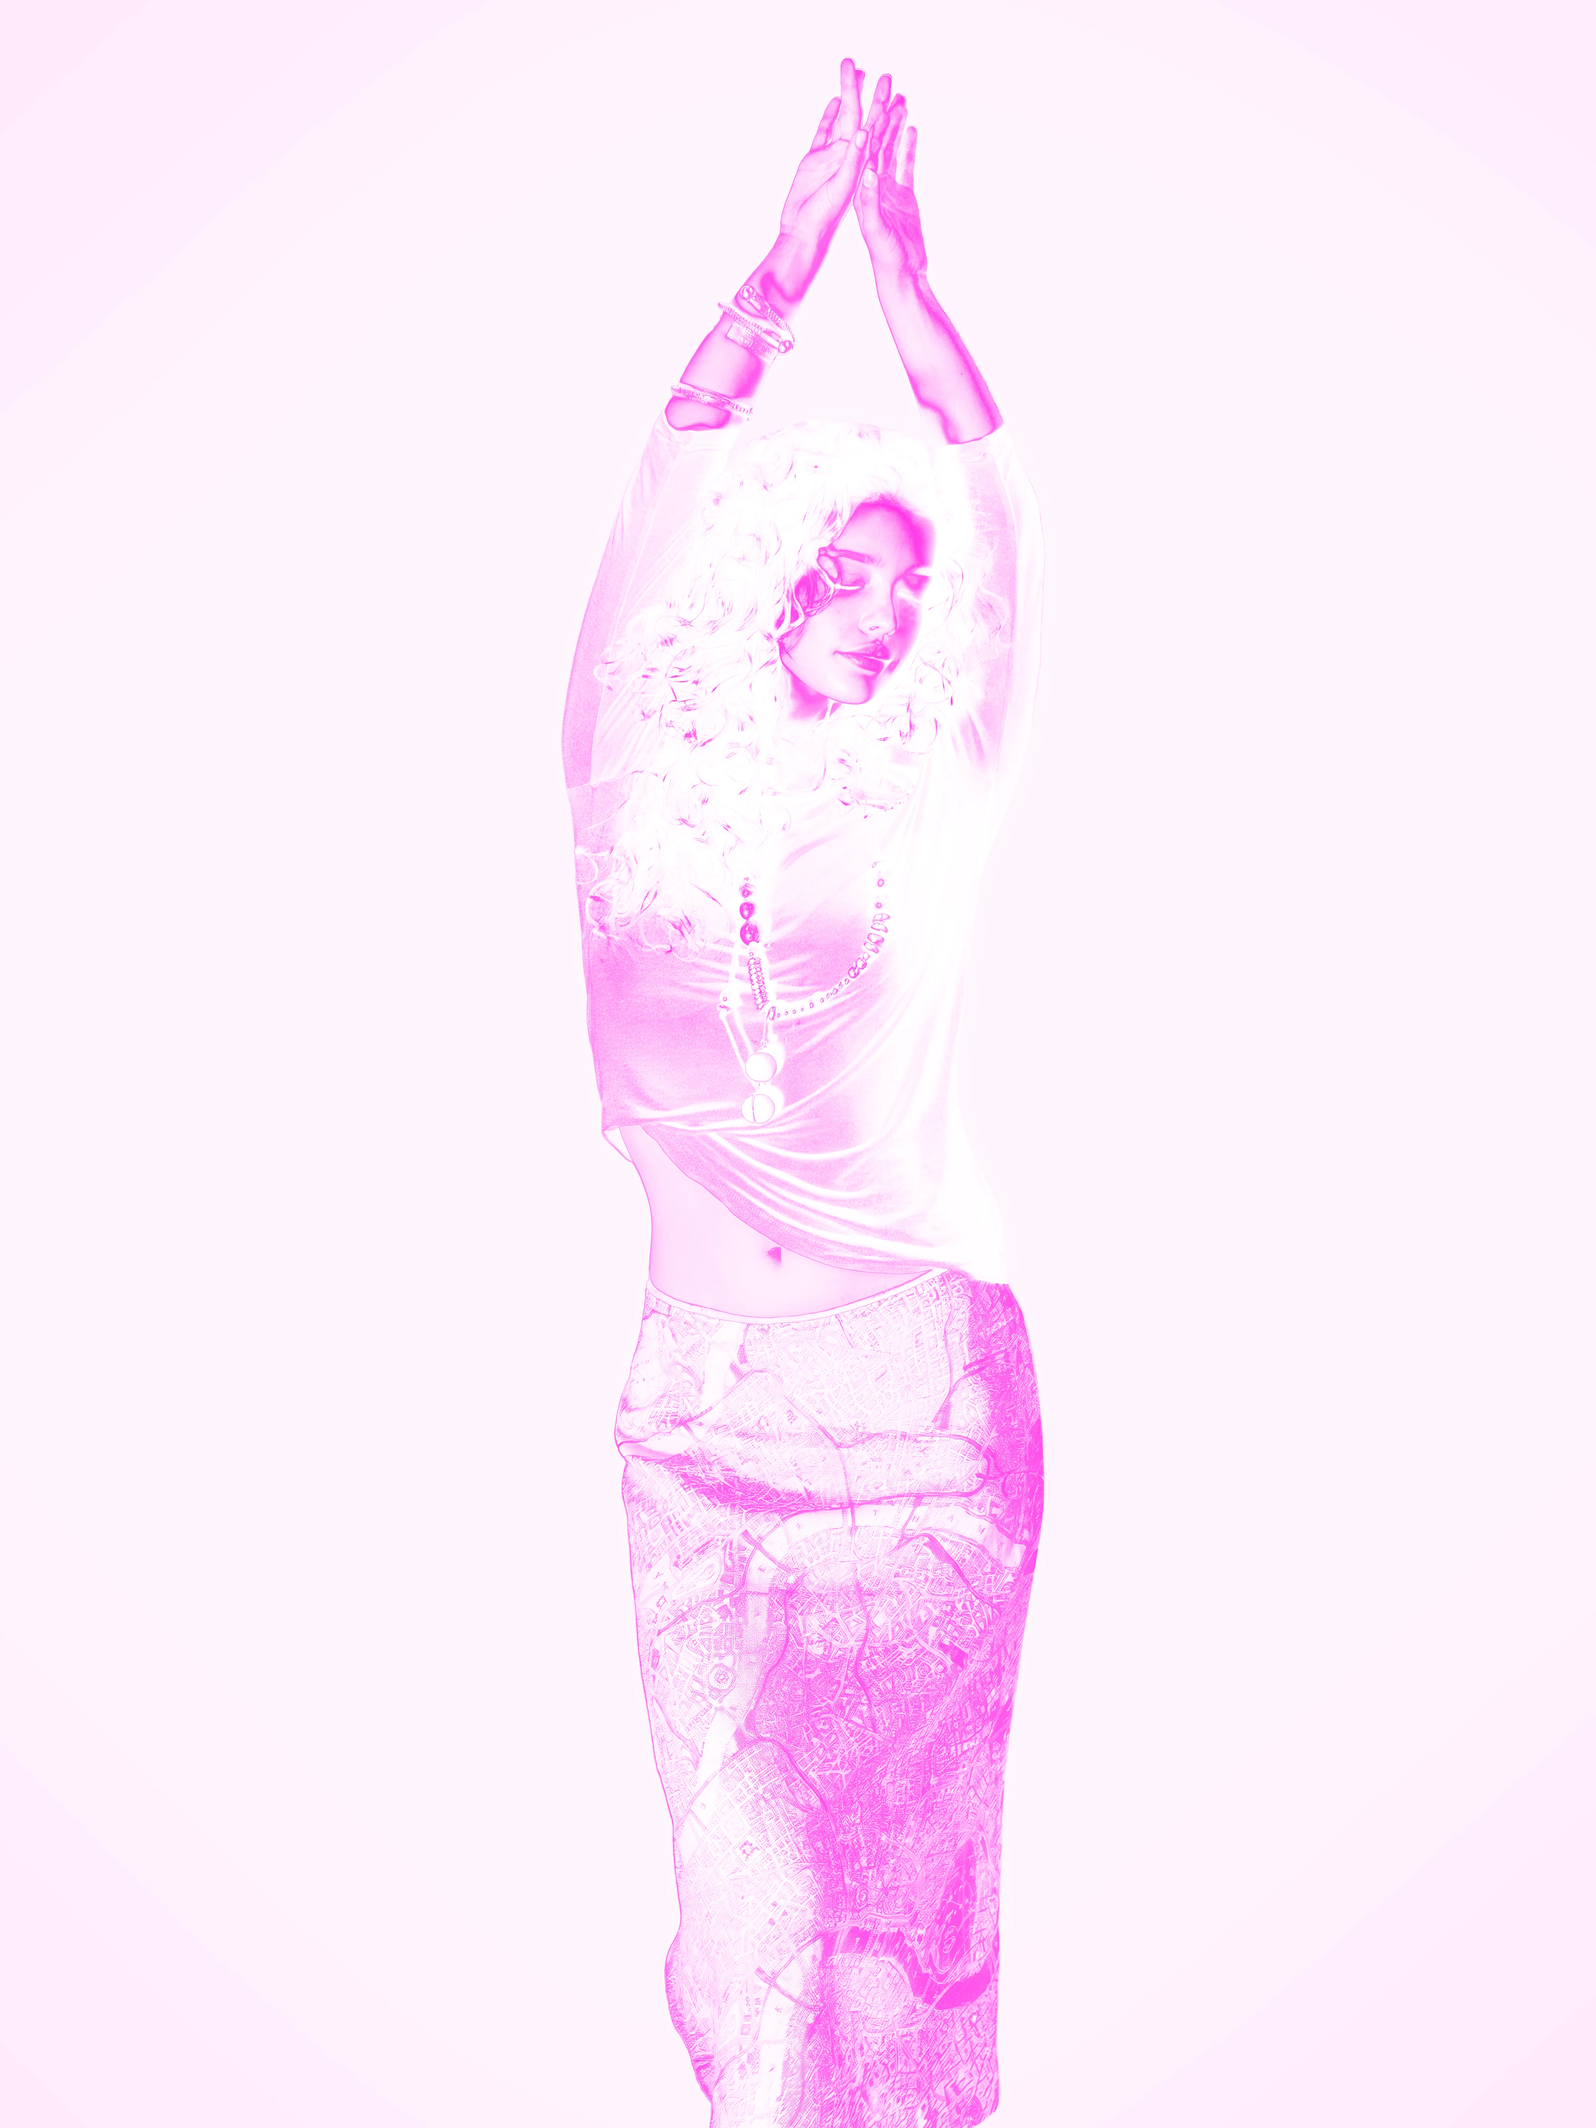
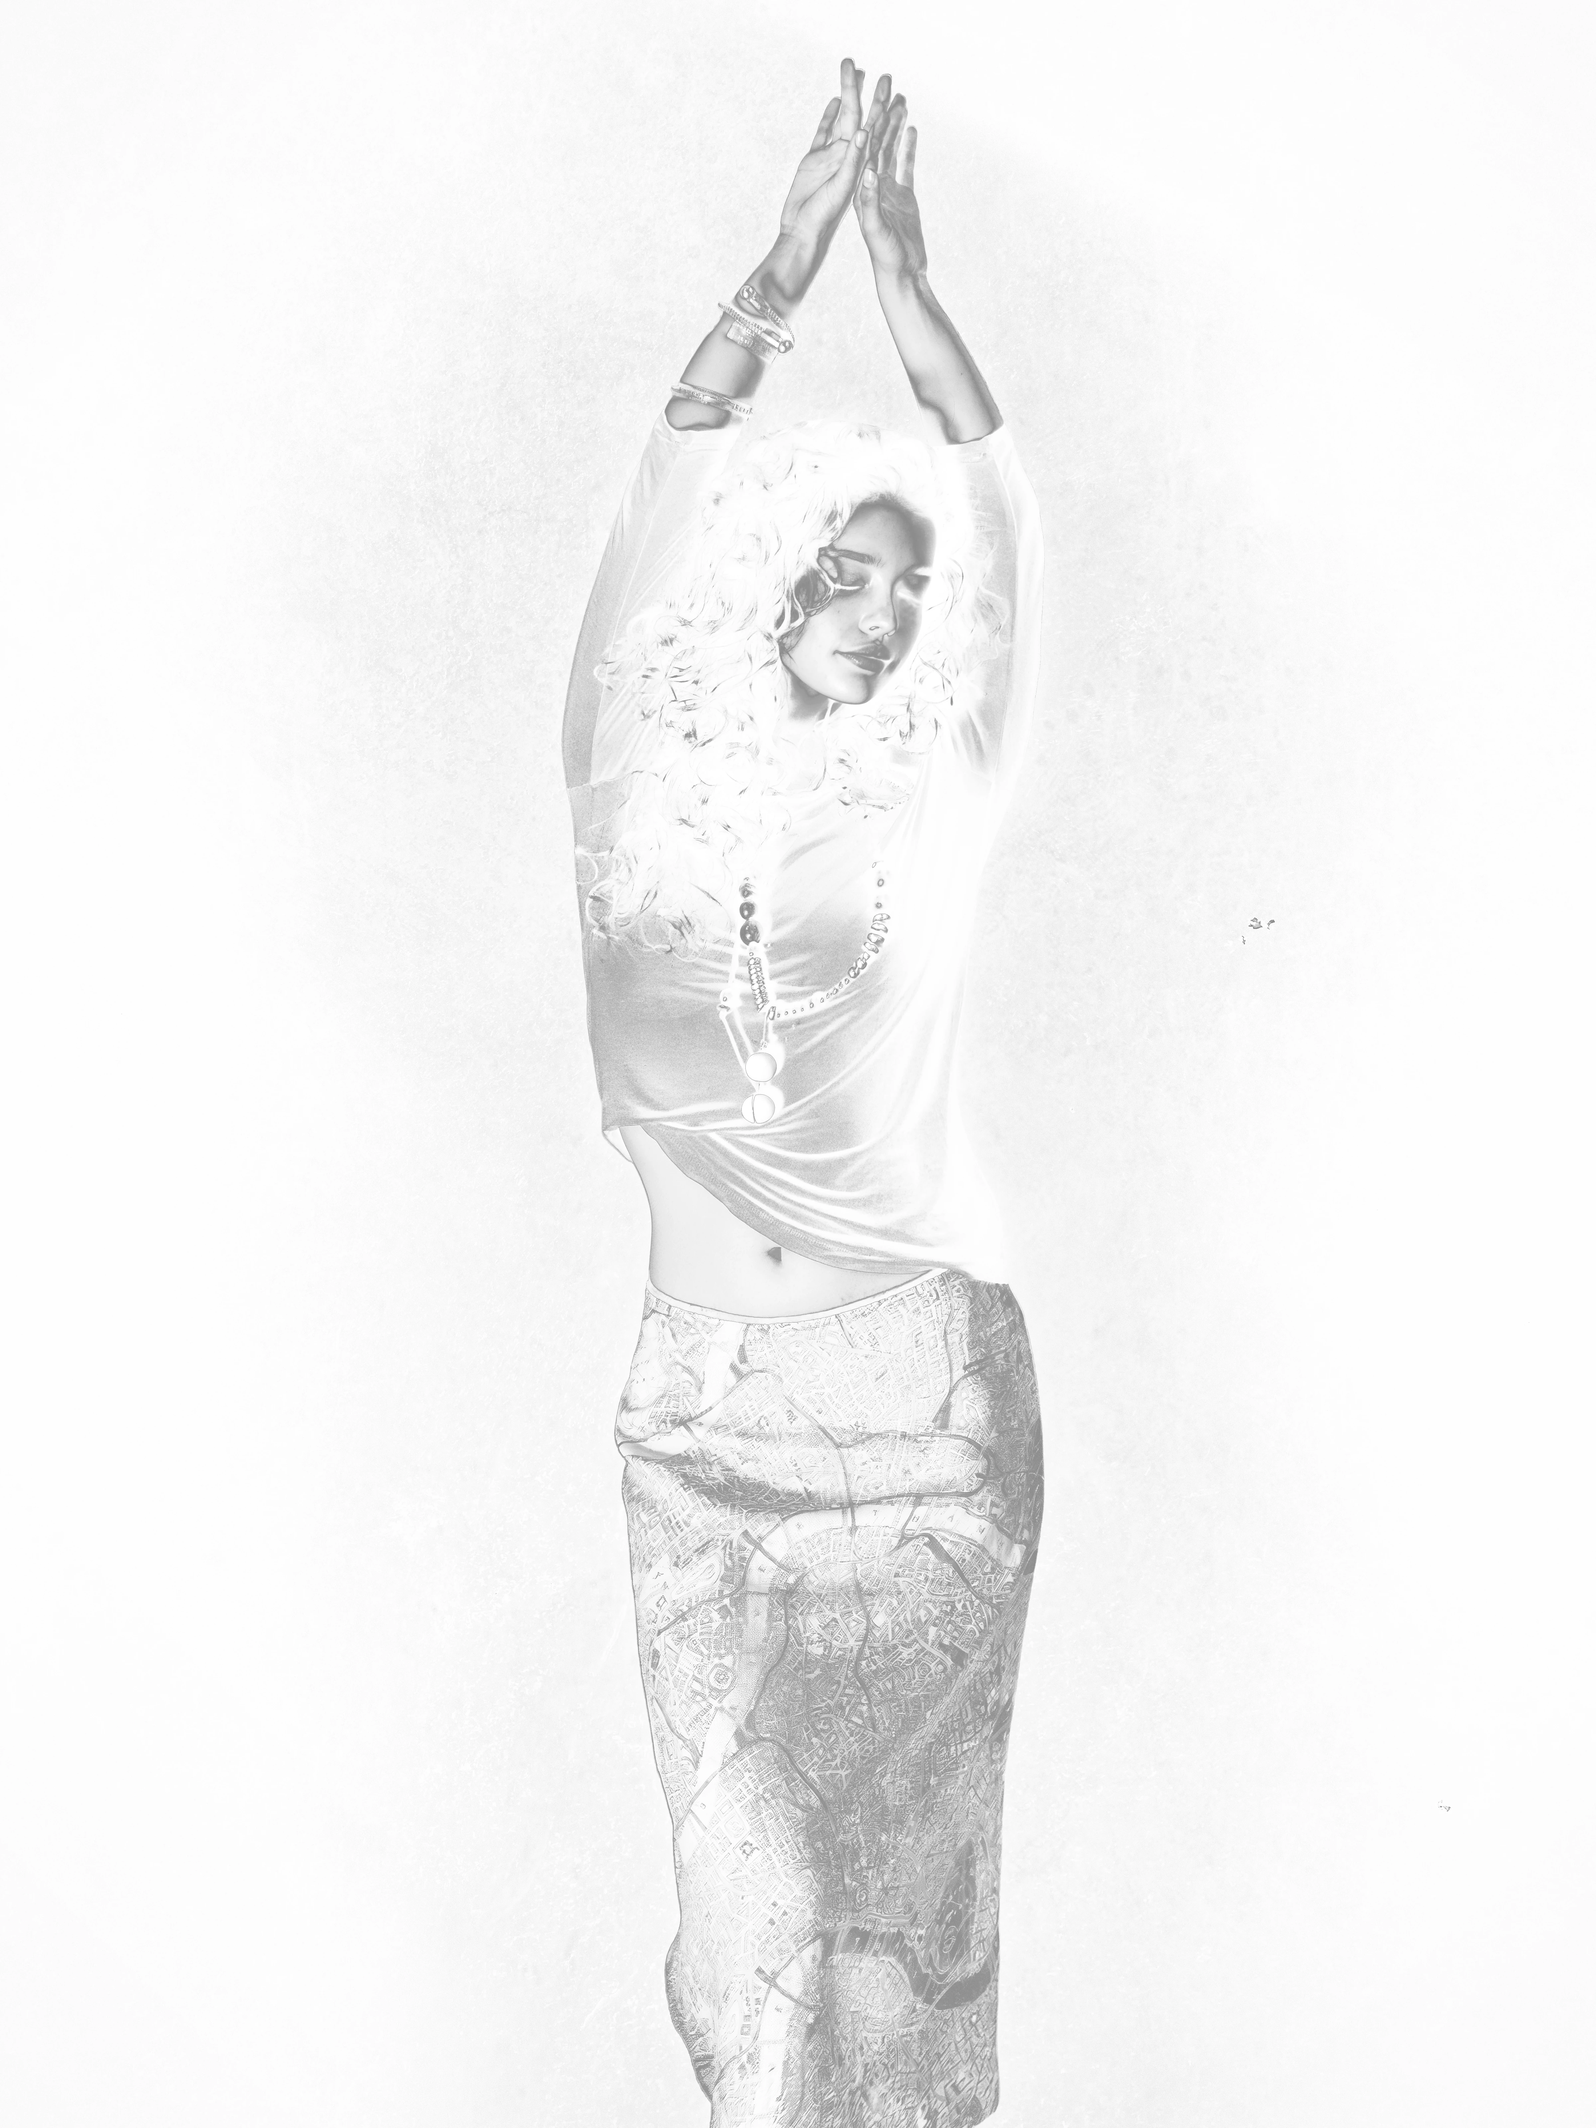
Replace the Colour Series picture, keeping its place and caption
Swaps the image behind Value(49) for the new upload. Value and caption
are untouched, so it stays third in the gallery.

Adds --replace to the import tool for this, along with two things the
first version got away with but this one would not:

- Photos now carry a hash of their own bytes in the URL. A replacement
  keeps its filename, so without that the browser and the CDN would both
  go on serving the old picture from cache.
- Uploads with an alpha channel are flattened onto white rather than
  straight to RGB, which composites transparency onto black. This file
  turned out to be fully opaque, but the next one may not be.

Changed region(s): [[0.3438, 0.25, 0.6562, 1.0], [0.4062, 0.0312, 0.6562, 0.375]]

diff --git a/script.js b/script.js
@@ -2,39 +2,39 @@
 // "src" must point to an image in the images/ folder.
 // "title" contains the caption (filename after Value(number))
 const PHOTOS = [
-  { src: "images/web/Value(51)Chasing,2026.webp", title: "Chasing,2026", ar: 0.6667 },
-  { src: "images/web/Value(50)Freddie Taylor for Chatchai Chaitrakulthong, 2026.webp", title: "Freddie Taylor for Chatchai Chaitrakulthong, 2026", ar: 0.7505 },
-  { src: "images/web/Value(49)Colour Series, 2026.webp", title: "Colour Series, 2026", ar: 0.7500 },
-  { src: "images/web/Value(48)Chasing, 2026.webp", title: "Chasing, 2026", ar: 0.7325 },
-  { src: "images/web/Value(45)Audio, Fijolla, 2026.webp", title: "Audio, Fijolla, 2026", ar: 0.7500 },
-  { src: "images/web/Value(41)Manon Servage, 2026.webp", title: "Manon Servage, 2026", ar: 0.7150 },
-  { src: "images/web/Value(35)Manon Servage for Volume, 2026.webp", title: "Manon Servage for Volume, 2026", ar: 0.7550 },
-  { src: "images/web/Value(34)Freddie Taylor for Chatchai Chaitrakulthong, 2026.webp", title: "Freddie Taylor for Chatchai Chaitrakulthong, 2026", ar: 0.7502 },
-  { src: "images/web/Value(33)Chasing, 2026.webp", title: "Chasing, 2026", ar: 0.6667 },
-  { src: "images/web/Value(32)Freddie Taylor for Chatchai Chaitrakulthong, 2026.webp", title: "Freddie Taylor for Chatchai Chaitrakulthong, 2026", ar: 0.7500 },
-  { src: "images/web/Value(29)Chasing, 2026.webp", title: "Chasing, 2026", ar: 0.6667 },
-  { src: "images/web/Value(26)Freddie Taylor for Chatchai Chaitrakulthong, 2026.webp", title: "Freddie Taylor for Chatchai Chaitrakulthong, 2026", ar: 0.7504 },
-  { src: "images/web/Value(25)Manon Servage for Volume, 2026.webp", title: "Manon Servage for Volume, 2026", ar: 0.6821 },
-  { src: "images/web/Value(24)Freddie Taylor for Chatchai Chaitrakulthong, 2026.webp", title: "Freddie Taylor for Chatchai Chaitrakulthong, 2026", ar: 0.7546 },
-  { src: "images/web/Value(23)Freddie Taylor for Chatchai Chaitrakulthong, 2026.webp", title: "Freddie Taylor for Chatchai Chaitrakulthong, 2026", ar: 0.7546 },
-  { src: "images/web/Value(22)Manon Servage, 2026.webp", title: "Manon Servage, 2026", ar: 0.6833 },
-  { src: "images/web/Value(20)Milan Here, 2026.webp", title: "Milan Here, 2026", ar: 0.6937 },
-  { src: "images/web/Value(19)Boko Yout for Pohoda, 2026.webp", title: "Boko Yout for Pohoda, 2026", ar: 0.6667 },
-  { src: "images/web/Value(16)Boko Yout for Pohoda, 2026.webp", title: "Boko Yout for Pohoda, 2026", ar: 0.6667 },
-  { src: "images/web/Value(15)Milan Here, 2026.webp", title: "Milan Here, 2026", ar: 0.6971 },
-  { src: "images/web/Value(14)Manon Servage, 2026.webp", title: "Manon Servage, 2026", ar: 0.6667 },
-  { src: "images/web/Value(12)Manon Servage, 2026.webp", title: "Manon Servage, 2026", ar: 0.7104 },
-  { src: "images/web/Value(11)Denu Denudes for Cover, 2025.webp", title: "Denu Denudes for Cover, 2025", ar: 0.7458 },
-  { src: "images/web/Value(10)Denu Denudes for Volume, 2025.webp", title: "Denu Denudes for Volume, 2025", ar: 0.7348 },
-  { src: "images/web/Value(9)Cover, 2025.webp", title: "Cover, 2025", ar: 0.7471 },
-  { src: "images/web/Value(8)Mishko for Volume, 2026.webp", title: "Mishko for Volume, 2026", ar: 0.7358 },
-  { src: "images/web/Value(7)O, 2025.webp", title: "O, 2025", ar: 0.6350 },
-  { src: "images/web/Value(6)Unbearable Lightness, 2025.webp", title: "Unbearable Lightness, 2025", ar: 0.7348 },
-  { src: "images/web/Value(5)Shout, 2025.webp", title: "Shout, 2025", ar: 0.6658 },
-  { src: "images/web/Value(4)Morphed Series, 2024.webp", title: "Morphed Series, 2024", ar: 0.6667 },
-  { src: "images/web/Value(2)Block, 2024.webp", title: "Block, 2024", ar: 0.7348 },
-  { src: "images/web/Value(2)Fur Legs, 2025.webp", title: "Fur Legs, 2025", ar: 0.7471 },
-  { src: "images/web/Value(1)Boot, 2024.webp", title: "Boot, 2024", ar: 0.7471 },
+  { src: "images/web/Value(51)Chasing,2026.webp?v=d1ef5f07", title: "Chasing,2026", ar: 0.6667 },
+  { src: "images/web/Value(50)Freddie Taylor for Chatchai Chaitrakulthong, 2026.webp?v=815f4cfd", title: "Freddie Taylor for Chatchai Chaitrakulthong, 2026", ar: 0.7505 },
+  { src: "images/web/Value(49)Colour Series, 2026.webp?v=21f9630c", title: "Colour Series, 2026", ar: 0.7500 },
+  { src: "images/web/Value(48)Chasing, 2026.webp?v=71b53fd5", title: "Chasing, 2026", ar: 0.7325 },
+  { src: "images/web/Value(45)Audio, Fijolla, 2026.webp?v=732a716b", title: "Audio, Fijolla, 2026", ar: 0.7500 },
+  { src: "images/web/Value(41)Manon Servage, 2026.webp?v=70380b1a", title: "Manon Servage, 2026", ar: 0.7150 },
+  { src: "images/web/Value(35)Manon Servage for Volume, 2026.webp?v=9b372a8a", title: "Manon Servage for Volume, 2026", ar: 0.7550 },
+  { src: "images/web/Value(34)Freddie Taylor for Chatchai Chaitrakulthong, 2026.webp?v=7c0fcd54", title: "Freddie Taylor for Chatchai Chaitrakulthong, 2026", ar: 0.7502 },
+  { src: "images/web/Value(33)Chasing, 2026.webp?v=73ec6377", title: "Chasing, 2026", ar: 0.6667 },
+  { src: "images/web/Value(32)Freddie Taylor for Chatchai Chaitrakulthong, 2026.webp?v=676c42a3", title: "Freddie Taylor for Chatchai Chaitrakulthong, 2026", ar: 0.7500 },
+  { src: "images/web/Value(29)Chasing, 2026.webp?v=62480716", title: "Chasing, 2026", ar: 0.6667 },
+  { src: "images/web/Value(26)Freddie Taylor for Chatchai Chaitrakulthong, 2026.webp?v=62953417", title: "Freddie Taylor for Chatchai Chaitrakulthong, 2026", ar: 0.7504 },
+  { src: "images/web/Value(25)Manon Servage for Volume, 2026.webp?v=dd847a74", title: "Manon Servage for Volume, 2026", ar: 0.6821 },
+  { src: "images/web/Value(24)Freddie Taylor for Chatchai Chaitrakulthong, 2026.webp?v=925c9687", title: "Freddie Taylor for Chatchai Chaitrakulthong, 2026", ar: 0.7546 },
+  { src: "images/web/Value(23)Freddie Taylor for Chatchai Chaitrakulthong, 2026.webp?v=3a17748a", title: "Freddie Taylor for Chatchai Chaitrakulthong, 2026", ar: 0.7546 },
+  { src: "images/web/Value(22)Manon Servage, 2026.webp?v=4aa3ed13", title: "Manon Servage, 2026", ar: 0.6833 },
+  { src: "images/web/Value(20)Milan Here, 2026.webp?v=7585733d", title: "Milan Here, 2026", ar: 0.6937 },
+  { src: "images/web/Value(19)Boko Yout for Pohoda, 2026.webp?v=16fb2828", title: "Boko Yout for Pohoda, 2026", ar: 0.6667 },
+  { src: "images/web/Value(16)Boko Yout for Pohoda, 2026.webp?v=76d243a1", title: "Boko Yout for Pohoda, 2026", ar: 0.6667 },
+  { src: "images/web/Value(15)Milan Here, 2026.webp?v=44167591", title: "Milan Here, 2026", ar: 0.6971 },
+  { src: "images/web/Value(14)Manon Servage, 2026.webp?v=ddbd9645", title: "Manon Servage, 2026", ar: 0.6667 },
+  { src: "images/web/Value(12)Manon Servage, 2026.webp?v=3ddd0ec0", title: "Manon Servage, 2026", ar: 0.7104 },
+  { src: "images/web/Value(11)Denu Denudes for Cover, 2025.webp?v=c7026b0a", title: "Denu Denudes for Cover, 2025", ar: 0.7458 },
+  { src: "images/web/Value(10)Denu Denudes for Volume, 2025.webp?v=d68f5ce2", title: "Denu Denudes for Volume, 2025", ar: 0.7348 },
+  { src: "images/web/Value(9)Cover, 2025.webp?v=d0764c01", title: "Cover, 2025", ar: 0.7471 },
+  { src: "images/web/Value(8)Mishko for Volume, 2026.webp?v=5d771d98", title: "Mishko for Volume, 2026", ar: 0.7358 },
+  { src: "images/web/Value(7)O, 2025.webp?v=6962c783", title: "O, 2025", ar: 0.6350 },
+  { src: "images/web/Value(6)Unbearable Lightness, 2025.webp?v=12c1a673", title: "Unbearable Lightness, 2025", ar: 0.7348 },
+  { src: "images/web/Value(5)Shout, 2025.webp?v=4a5e94bd", title: "Shout, 2025", ar: 0.6658 },
+  { src: "images/web/Value(4)Morphed Series, 2024.webp?v=63ba2ff8", title: "Morphed Series, 2024", ar: 0.6667 },
+  { src: "images/web/Value(2)Block, 2024.webp?v=db09423f", title: "Block, 2024", ar: 0.7348 },
+  { src: "images/web/Value(2)Fur Legs, 2025.webp?v=b8e2ec1d", title: "Fur Legs, 2025", ar: 0.7471 },
+  { src: "images/web/Value(1)Boot, 2024.webp?v=d20a9ffe", title: "Boot, 2024", ar: 0.7471 },
 ];
 
 // Order always follows the Value(n) number in the filename, highest first.

diff --git a/gallery/index.html b/gallery/index.html
@@ -23,7 +23,7 @@
   <div class="watch-canvas" id="watchCanvas"></div>
 </main>
 
-<script src="../script.js?v=25"></script>
-<script src="../gallery.js?v=14"></script>
+<script src="../script.js?v=26"></script>
+<script src="../gallery.js?v=15"></script>
 </body>
 </html>

diff --git a/contact/index.html b/contact/index.html
@@ -37,6 +37,6 @@
   <p>&copy; <span id="year"></span> Hugo Kae. All images on this site are copyright protected.</p>
 </footer>
 
-<script src="../script.js?v=25"></script>
+<script src="../script.js?v=26"></script>
 </body>
 </html>

diff --git a/index.html b/index.html
@@ -37,6 +37,6 @@
   <p>&copy; <span id="year"></span> Hugo Kae. All images on this site are copyright protected.</p>
 </footer>
 
-<script src="script.js?v=25"></script>
+<script src="script.js?v=26"></script>
 </body>
 </html>

diff --git a/tools/import.py b/tools/import.py
@@ -6,14 +6,18 @@ in images/, a 2400px copy in images/web/ that the pages actually load,
 and a 400px thumbnail in images/thumb/ for the grid. The PHOTOS list in
 script.js is then regenerated from what is on disk.
 
-    python3 tools/import.py                # newest photo goes first
-    python3 tools/import.py --value 49     # or place it explicitly
-    python3 tools/import.py --slot 3       # or by position in the gallery
+    python3 tools/import.py                      # newest photo goes first
+    python3 tools/import.py --value 49           # or place it explicitly
+    python3 tools/import.py --slot 3             # or by position in the gallery
+    python3 tools/import.py --replace 49 --file Replace.png
+                                                 # swap one photo's picture,
+                                                 # keeping its value and caption
 
 Needs Pillow with WebP support.
 """
 
 import argparse
+import hashlib
 import os
 import re
 import sys
@@ -82,6 +86,18 @@ def derive(path, value):
     return "Value(%d)%s.webp" % (value, caption), caption
 
 
+def load(path):
+    img = ImageOps.exif_transpose(Image.open(path))
+    if img.mode in ("RGBA", "LA", "P"):
+        # Flatten onto white, matching the page. Converting straight to
+        # RGB would composite any transparency onto black instead.
+        img = img.convert("RGBA")
+        flat = Image.new("RGB", img.size, (255, 255, 255))
+        flat.paste(img, mask=img.getchannel("A"))
+        return flat
+    return img.convert("RGB")
+
+
 def write_sizes(src_img, name):
     master = os.path.join(MASTERS, name)
     src_img.save(master, "WEBP", quality=MASTER_Q, method=6)
@@ -98,9 +114,16 @@ def write_sizes(src_img, name):
 def regenerate_photo_list():
     lines = ["const PHOTOS = ["]
     for value, name, caption in masters():
-        w, h = Image.open(os.path.join(WEB, name)).size
+        path = os.path.join(WEB, name)
+        w, h = Image.open(path).size
+        # Tag each photo with a hash of its own bytes. Replacing a picture
+        # keeps its filename, so without this the browser and the CDN would
+        # go on serving the old one from cache.
+        with open(path, "rb") as fh:
+            tag = hashlib.md5(fh.read()).hexdigest()[:8]
         lines.append(
-            '  { src: "images/web/%s", title: "%s", ar: %.4f },' % (name, caption, w / h)
+            '  { src: "images/web/%s?v=%s", title: "%s", ar: %.4f },'
+            % (name, tag, caption, w / h)
         )
     lines.append("];")
 
@@ -114,6 +137,9 @@ def main():
     ap = argparse.ArgumentParser()
     ap.add_argument("--value", type=int, help="exact Value(n) to assign")
     ap.add_argument("--slot", type=int, help="position in the gallery, 1 = first")
+    ap.add_argument("--replace", type=int, metavar="VALUE",
+                    help="swap this photo's picture, keeping its value and caption")
+    ap.add_argument("--file", help="which upload to use (default: the only one)")
     # The master written here is lossy WebP, so the uploaded file may be
     # the only lossless copy. Removing it is opt-in.
     ap.add_argument("--remove", action="store_true", help="delete the upload once imported")
@@ -127,8 +153,40 @@ def main():
         if os.path.splitext(f)[1].lower() in SOURCES
         and os.path.isfile(os.path.join(UPLOAD, f))
     )
+    if args.file:
+        if args.file not in pending:
+            sys.exit("%r is not in images/upload/ (found: %s)" % (args.file, ", ".join(pending)))
+        pending = [args.file]
+
     if not pending:
         print("Nothing to import.")
+        return
+
+    if args.replace is not None:
+        if len(pending) != 1:
+            sys.exit("Replacing needs one source — pass --file to choose between: %s"
+                     % ", ".join(pending))
+        match = [m for m in masters() if m[0] == args.replace]
+        if not match:
+            sys.exit("No photo has Value(%d)." % args.replace)
+        _, name, caption = match[0]
+
+        path = os.path.join(UPLOAD, pending[0])
+        img = load(path)
+        before = os.path.getsize(os.path.join(WEB, name))
+        write_sizes(img, name)
+
+        print("%s" % pending[0])
+        print("  -> replaces the picture in %s" % name)
+        print("  caption kept: %s" % caption)
+        print("  source:  %dx%d" % (img.width, img.height))
+        print("  web:     %.0f KB (was %.0f KB)"
+              % (os.path.getsize(os.path.join(WEB, name)) / 1024, before / 1024))
+
+        if args.remove:
+            os.remove(path)
+
+        print("\nscript.js rebuilt: %d photos" % regenerate_photo_list())
         return
 
     for upload in pending:
@@ -137,7 +195,7 @@ def main():
         value = pick_value(existing, args)
         name, caption = derive(path, value)
 
-        img = ImageOps.exif_transpose(Image.open(path)).convert("RGB")
+        img = load(path)
         before = os.path.getsize(path)
         write_sizes(img, name)
 
